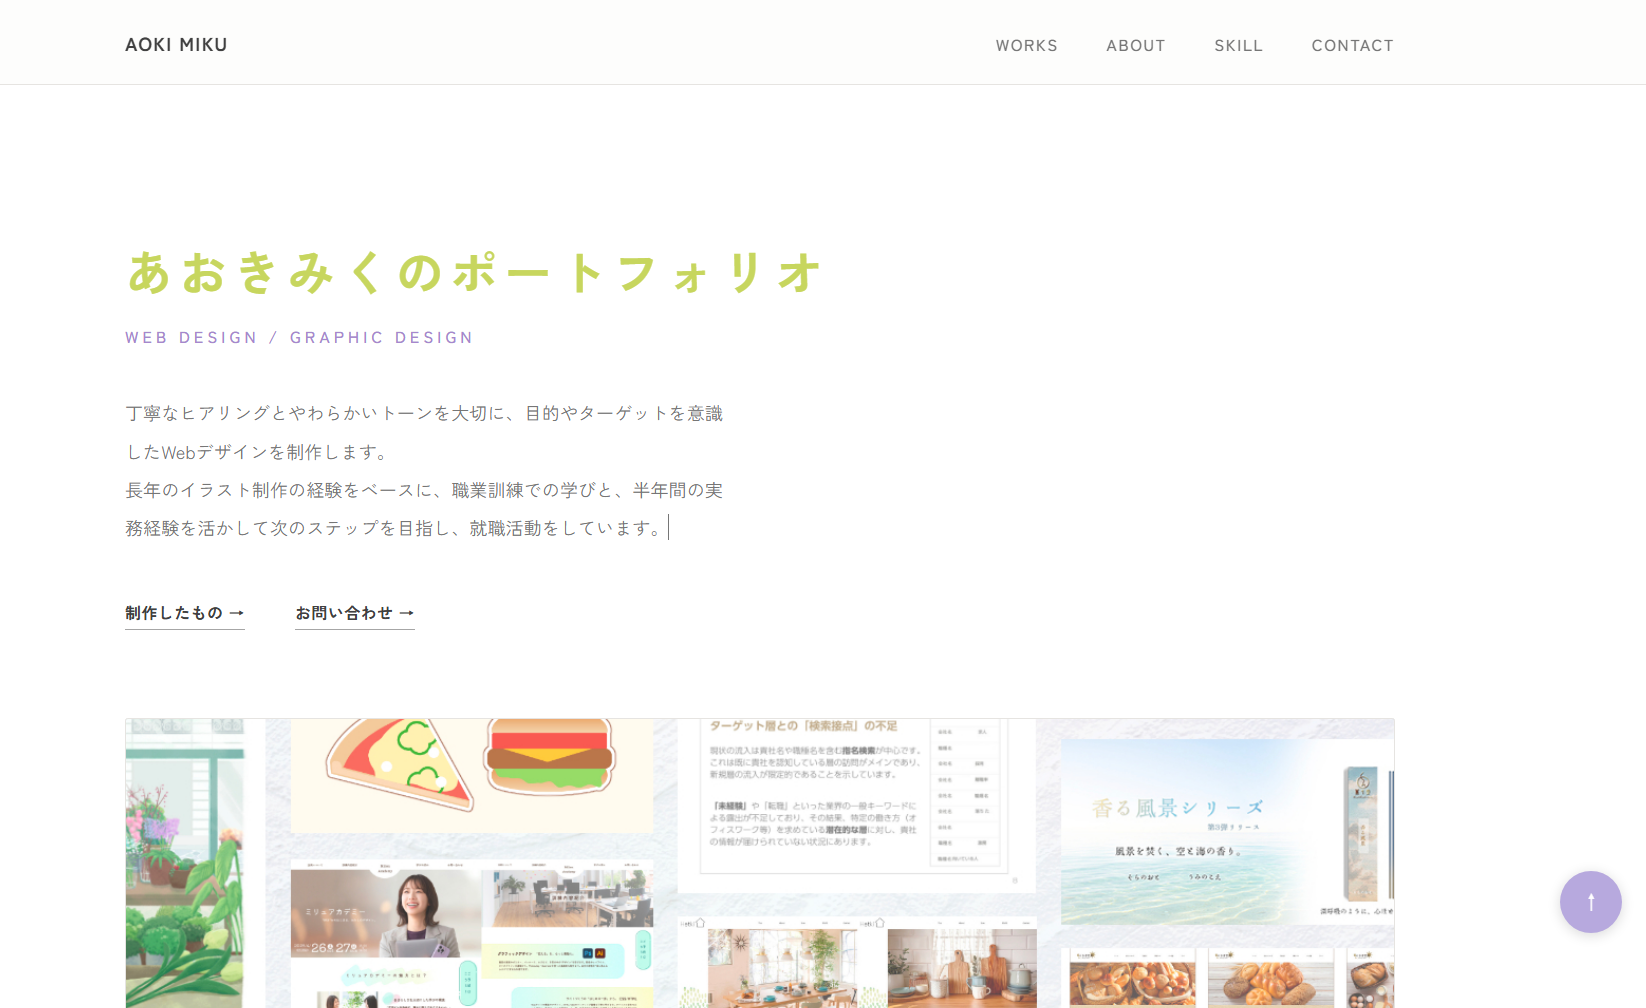
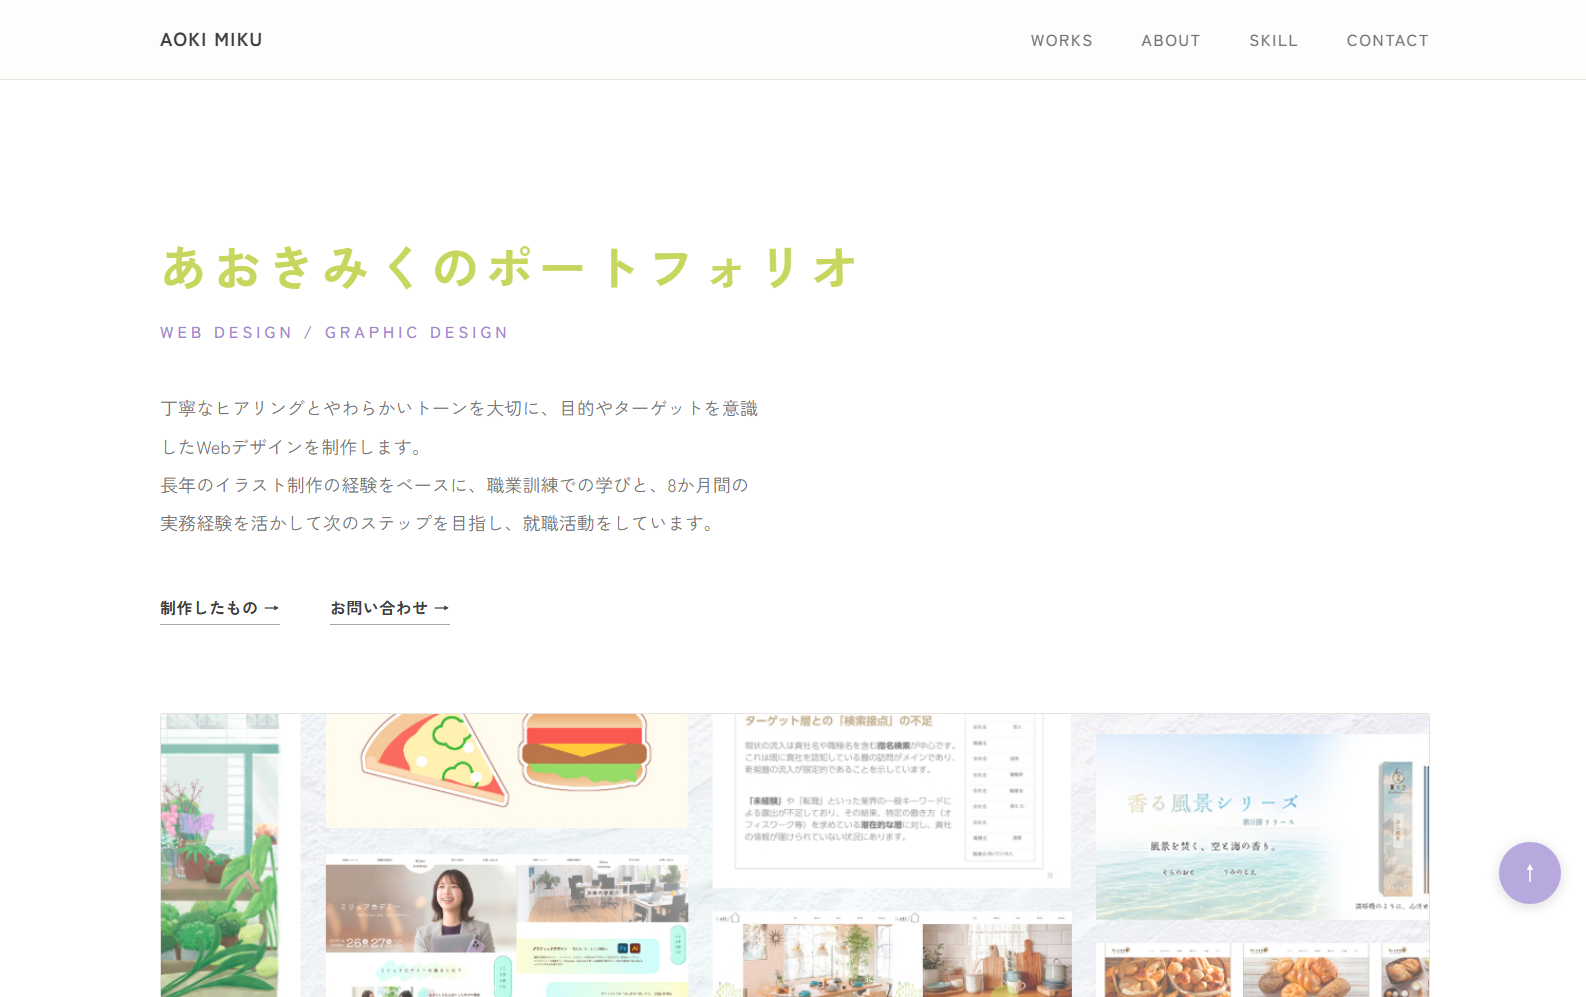
サムネ追加

diff --git a/index.html b/index.html
@@ -77,7 +77,7 @@
 
       <div class="works-row reveal">
         <div class="ph">
-          <img src="img/portfolio_1.png" alt="">
+          <img src="img/portfolio_samune.png" alt="">
         </div>
         <div>
           <span class="works-cate">WEB DESIGN</span>
